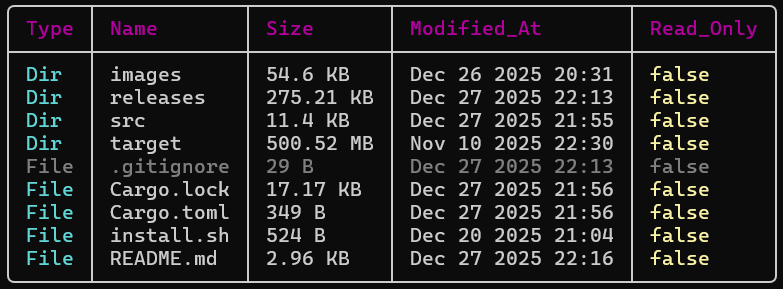
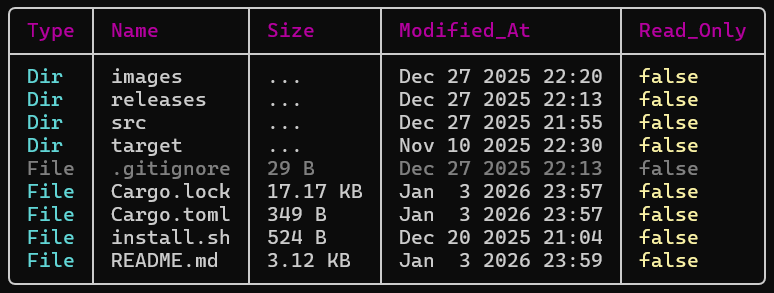
Made Directory size display optional

Changed region(s): [[0.0, 0.0, 0.9922, 0.9965]]

diff --git a/src/main.rs b/src/main.rs
@@ -14,7 +14,7 @@ use tabled::{
 };
 
 mod dependencies;
-use crate::dependencies::find_length;
+use crate::dependencies::{convert, find_length};
 
 #[derive(Debug, Display, Serialize)]
 enum EntryType {
@@ -63,6 +63,8 @@ struct CLI {
     depth: u32,
     #[arg(short = 'f', long = "file-info", help = "Provides information about a file")]
     file_info: bool,
+    #[arg(short = 's', long = "directory-size", help = "Recursively calculates the size of directories (May take time)")]
+    directory_size: bool,
 }
 
 // Files that start with "." but are not considered hidden
@@ -76,7 +78,7 @@ fn main() {
     if let Ok(does_exist) = fs::exists(&path) {
         if does_exist {
             if cli.json {
-                let get_files = get_files(&path);
+                let get_files = get_files(&path, false);
                 println!(
                     "{}",
                     serde_json::to_string(&get_files).unwrap_or("Cannot Parse JSON".to_string())
@@ -91,7 +93,7 @@ fn main() {
                     Err(msg) => println!("{msg}")
                 }
             } else {
-                let data = get_data(&path, cli.all, cli.hiddenonly);
+                let data = get_data(&path, cli.all, cli.hiddenonly, cli.directory_size);
                 match data {
                     Ok(res) => print_table(res),
                     Err(msg) => println!("{msg}")
@@ -105,13 +107,13 @@ fn main() {
     }
 }
 
-fn get_files(path: &Path) -> Vec<FileEntry> {
+fn get_files(path: &Path, directory_size: bool) -> Vec<FileEntry> {
     let mut data = Vec::default();
     if let Ok(read_dir) = fs::read_dir(path) {
         let mut dir_index: usize = 0;
         for entry in read_dir {
             if let Ok(file) = entry {
-                map_data(file, &mut data, &mut dir_index);
+                map_data(file, &mut data, &mut dir_index, directory_size);
             }
         }
     }
@@ -119,8 +121,8 @@ fn get_files(path: &Path) -> Vec<FileEntry> {
 }
 
 // To get the data about the files and directories in the given path
-fn get_data(path: &Path, all:bool, hiddenonly: bool) -> Result<Vec<FileEntry>, String> {
-    let mut get_files = get_files(&path);
+fn get_data(path: &Path, all:bool, hiddenonly: bool, directory_size: bool) -> Result<Vec<FileEntry>, String> {
+    let mut get_files = get_files(&path, directory_size);
     if hiddenonly {
         let get_files_iter: IntoIter<FileEntry> = get_files.into_iter();
         get_files = only_hidden(get_files_iter);
@@ -150,7 +152,7 @@ fn print_table(get_files: Vec<FileEntry>) {
 }
 
 // To collect data about directories and map them into a vector so that they can be displayed in table
-fn map_dir_data(file: fs::DirEntry, data: &mut Vec<FileEntry>, dir_index: &mut usize) -> fs::DirEntry {
+fn map_dir_data(file: fs::DirEntry, data: &mut Vec<FileEntry>, dir_index: &mut usize, directory_size: bool) -> fs::DirEntry {
     if let Ok(meta) = fs::metadata(&file.path()) {
         if meta.is_dir() {
             data.insert(*dir_index, FileEntry {
@@ -159,7 +161,7 @@ fn map_dir_data(file: fs::DirEntry, data: &mut Vec<FileEntry>, dir_index: &mut u
                     .into_string()
                     .unwrap_or("unknown name".into()),
                 e_type: EntryType::Dir,
-                len_bytes: find_length(&file.path()),
+                len_bytes: find_length(&file.path(), directory_size),
                 modified: if let Ok(mod_time) = meta.modified() {
                     let date: DateTime<Local> = mod_time.into();
                     format!("{}", date.format("%b %e %Y %H:%M"))
@@ -185,7 +187,7 @@ fn map_file_data(file: fs::DirEntry, data: &mut Vec<FileEntry>) {
                     .into_string()
                     .unwrap_or("unknown name".into()),
                 e_type: EntryType::File,
-                len_bytes: find_length(&file.path()),
+                len_bytes: find_length(&file.path(), false),
                 modified: if let Ok(mod_time) = meta.modified() {
                     let date: DateTime<Local> = mod_time.into();
                     format!("{}", date.format("%b %e %Y %H:%M"))
@@ -201,8 +203,8 @@ fn map_file_data(file: fs::DirEntry, data: &mut Vec<FileEntry>) {
 
 // Calling map_dir_data and map_file_data
 // This order of calling the methods is what displays Directories first, then the files in the table
-fn map_data(file: fs::DirEntry, data: &mut Vec<FileEntry>, dir_index: &mut usize) {
-    let re_arg = map_dir_data(file, data, dir_index);
+fn map_data(file: fs::DirEntry, data: &mut Vec<FileEntry>, dir_index: &mut usize, directory_size: bool) {
+    let re_arg = map_dir_data(file, data, dir_index, directory_size);
     map_file_data(re_arg, data);
 }
 
@@ -246,7 +248,7 @@ fn getting_file_info(path: &Path) -> Result<Vec<FileEntry>, String> {
         res.push(FileEntry {
             name: path.file_name().unwrap_or(&OsStr::from("File Not Found!")).to_owned().into_string().expect("File Not Found!"),
             e_type: EntryType::File,
-            len_bytes: find_length(&path),
+            len_bytes: convert(meta.len() as f64),
             modified: if let Ok(mod_time) = meta.modified() {
                 let date: DateTime<Local> = mod_time.into();
                 format!("{}", date.format("%b %e %Y %H:%M"))

diff --git a/src/dependencies.rs b/src/dependencies.rs
@@ -33,7 +33,7 @@ where
 }
 
 // To convert the length of the files from Byte information to respective file length unit
-fn convert(num: f64) -> String {
+pub fn convert(num: f64) -> String {
   let negative = if num.is_sign_positive() { "" } else { "-" };
   let num = num.abs();
   let units = ["B", "KB", "MB", "GB", "TB", "PB", "EB", "ZB", "YB"];
@@ -47,7 +47,13 @@ fn convert(num: f64) -> String {
   format!("{}{} {}", negative, pretty_bytes, unit)
 }
 
-pub fn find_length(path: &Path) -> String {
-    let bytes = get_size(path).unwrap_or(0_u64);
+pub fn find_length(path: &Path, directory_size: bool) -> String {
+    let metadata = path.symlink_metadata().unwrap();
+    let mut bytes: u64 = metadata.len();
+    if directory_size && metadata.is_dir() {
+        bytes = get_size(path).unwrap_or(0_u64);
+    } else if !directory_size && metadata.is_dir() {
+        return String::from("...");
+    }
     convert(bytes as f64)
 }

diff --git a/README.md b/README.md
@@ -1,12 +1,12 @@
 # `btrls`
-A tabled `ls` command developed in Rust with color-coded columns. The basic functionality of the `ls` command has been implemented in the release `v1.1.0`. 
+A tabled `ls` command developed in Rust with color-coded columns. The basic functionality of the `ls` command has been implemented in the release `v1.1.1`. 
 
 With `btrls` you can see the files and directories in a tabled format with the option to export the details of files and directories as **JSON** with the `--json` or `-j` flag.
 
 ![A sample output image of `btrls` command](./images/btrls-sample.png)
 
 ## Building the applicationv
-Clone the Repository. Make sure that you have `rustc` and `cargo` installed on you system. Then run the following command:
+Clone the Repository. Make sure that you have `rustup` and `cargo` installed on you system. Then run the following command:
 ```bash
 cargo build -r
 ```
@@ -15,7 +15,7 @@ Then you can find the application in the `<Path-to-repo>/target/release/btrls` o
 ## Installation
 Please refer to the releases section for the below mentioned files.
 ### For Windows Systems
-If you are on a Windows Machine, you can download the `btrls-v1.0.0.exe` executable file and add the location of the downloaded application to the System or User Environment Variables.
+If you are on a Windows Machine, you can download the `btrls-v1.1.1.exe` executable file and add the location of the downloaded application to the System or User Environment Variables.
 
 And you can also compile the application from source by either downloading an archive or cloning the repository then building the application with `cargo`.
 
@@ -77,6 +77,12 @@ Sets the recursion depth for the recursive listings. The default value of depth 
 -f, --file-info
 ```
 Provides information about a single file
+
+### View Size of Directories (Recursive)
+```bash
+-s, --directory-size
+```
+Recursively calculates the size of directories (May take time)
 
 ### Help
 ```bash
